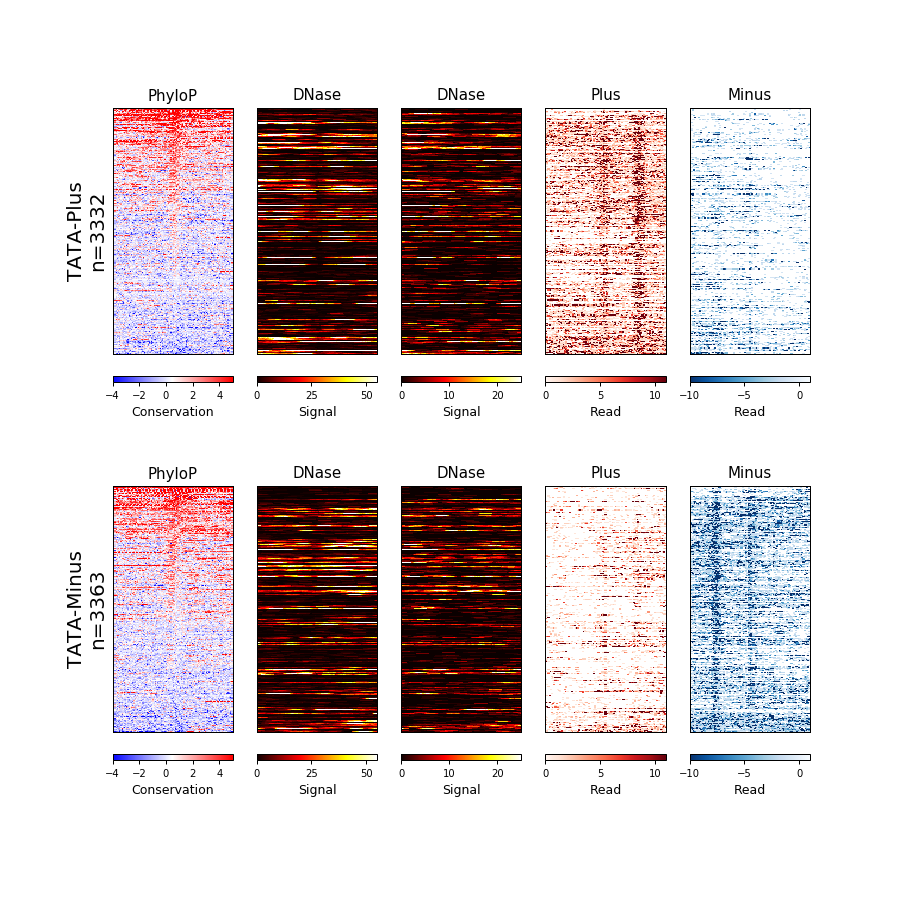
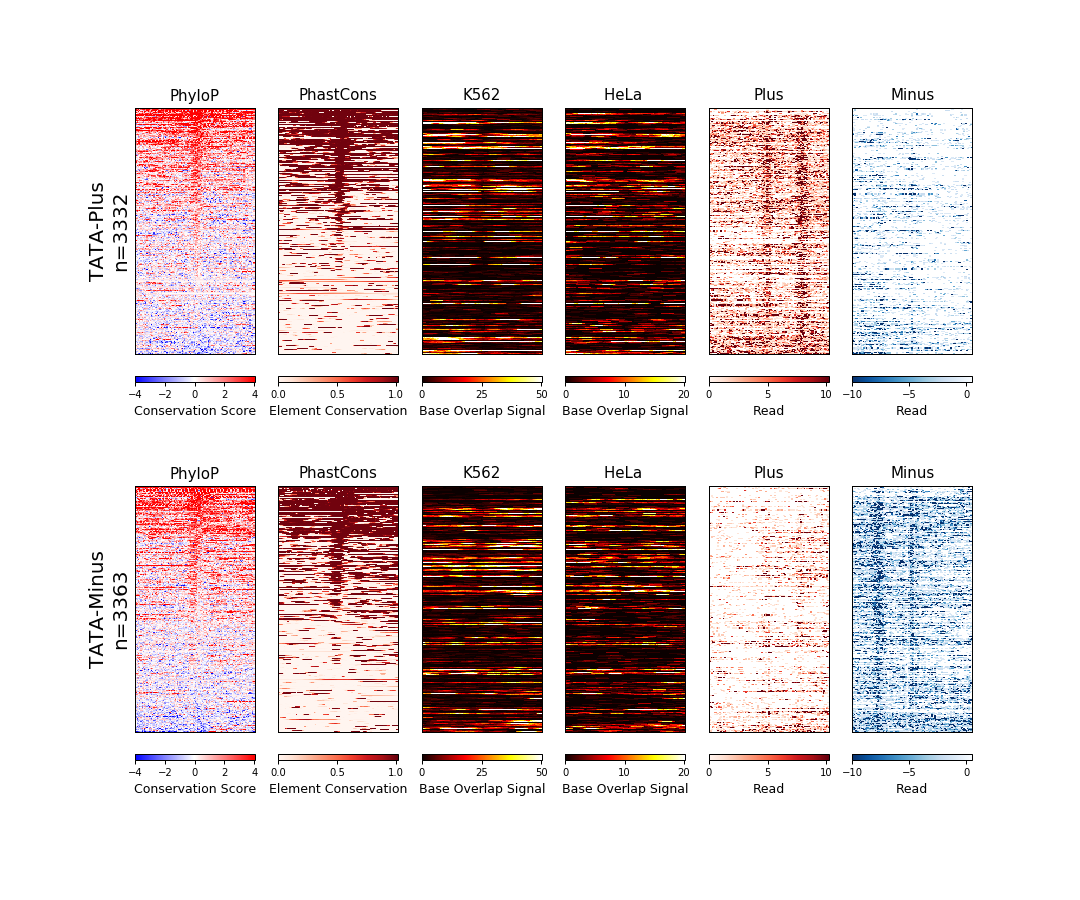
updated the readme file.

diff --git a/README.md b/README.md
@@ -20,11 +20,12 @@ My config.txt contains the following:
 ```
 bed	hg19/tata_plus.bed	50	50	TATA-Plus
 bed	hg19/tata_minus.bed	50	50	TATA-Minus
-bw	hg19.100way.phyloP100way.bw	-4	5	2	BuRd	PhyloP	Conservation
-bw	ENCFF000SLA.bigWig	0	55	25	Hot	DNase	Signal
-bw	ENCFF000SPQ.bigWig	0	25	10	Hot	DNase	Signal
-bw	GSM1480321_K562_GROcap_wTAP_plus.bigWig	0	11	5	Reds	Plus	Read
-bw	GSM1480321_K562_GROcap_wTAP_minus.bigWig	-10	1	5	Blues	Minus	Read
+bw	hg19.100way.phyloP100way.bw	-4	4.02	2	BuRd	PhyloP	Conservation Score
+bw	hg19.100way.phastCons.bw	0	1.02	0.5	Reds	PhastCons	Element Conservation
+bw	ENCFF000SLA.bigWig	0	50.2	25	Hot	K562	Base Overlap Signal
+bw	ENCFF000SPQ.bigWig	0	20.2	10	Hot	HeLa 	Base Overlap Signal
+bw	GSM1480321_K562_GROcap_wTAP_plus.bigWig	0	10.2	5	Reds	Plus	Read
+bw	GSM1480321_K562_GROcap_wTAP_minus.bigWig	-10	0.5	5	Blues	Minus	Read
 pdf	tata_profile.png	size
 ```
 
